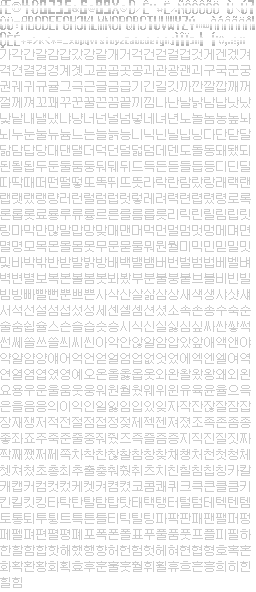
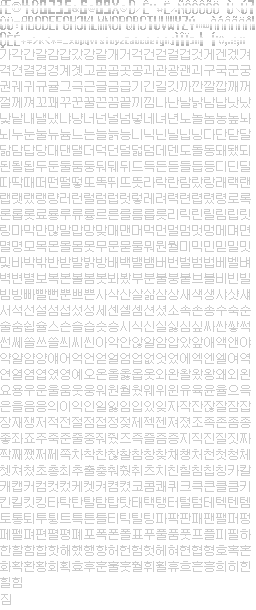
Add files via upload

diff --git a/ci/android_prepare.py b/ci/android_prepare.py
@@ -287,6 +287,151 @@ def patch_touch_auto():
         print(f"[ok]   {f}: 숨김 중에는 입력 무시")
 
 
+# 타이틀에서 20초 대기하면 디버그 켜기/끄기 (iOS 판과 같은 동작)
+DEBUG_IDLE_PATH = "System/DebugIdle.gd"
+DEBUG_IDLE_GD = """extends Node
+# 타이틀 메뉴에서 20초 동안 아무 입력(터치 등) 없이 두면 디버그를 켠다. 다른 메뉴에 들어갔다 나와서
+# 다시 20초 두면 이번엔 끈다. 화면 상단 가운데에 3초 알림. (iOS 판의 디버그 토글과 같은 동작)
+
+const DEBUG_IDLE_SEC = 20.0
+
+var dbg_idle: float = 0.0          # 타이틀 메뉴에서 입력 없이 지난 시간
+var dbg_armed: bool = true         # 한 번 토글하면, 다른 메뉴에 들어갔다 나올 때까지 다시 토글하지 않음
+var dbg_visited: bool = false      # 토글한 뒤 하위 메뉴에 들어갔다 왔는지
+var toast_layer = null
+var toast_label = null
+var toast_left: float = 0.0
+
+
+func _ready() -> void:
+	pause_mode = Node.PAUSE_MODE_PROCESS
+	var _e = get_tree().connect("node_added", self, "_on_node_added")
+
+
+# 타이틀 옵션 버튼은 원래 select_special 을 누르지 않고 들어가면 디버그를 꺼 버리므로 해금 플래그를 꺼 둔다
+func _on_node_added(n: Node) -> void:
+	if n is BaseButton:
+		call_deferred("_fix_button", n)
+
+
+func _fix_button(n) -> void:
+	if is_instance_valid(n) and n.get("able_to_unlock_debug") == true:
+		n.able_to_unlock_debug = false
+
+
+func _input(event: InputEvent) -> void:
+	if event is InputEventMouseMotion:
+		return
+	if event is InputEventJoypadMotion and abs(event.axis_value) < 0.5:
+		return
+	dbg_idle = 0.0
+
+
+func _process(delta: float) -> void:
+	if toast_left > 0.0:
+		toast_left -= delta
+		if toast_left <= 0.0 and toast_label != null:
+			toast_label.visible = false
+	var sc = get_tree().current_scene
+	var mm = null
+	if sc != null and sc.filename == "res://src/Title/IntroCapcom.tscn":
+		mm = sc.get_node_or_null("MainMenu")
+	if mm == null:
+		dbg_idle = 0.0
+		return
+	if _submenu_open(mm):
+		dbg_idle = 0.0
+		dbg_visited = true  # 옵션/키 설정 같은 하위 메뉴에 들어감
+		return
+	if mm.get("locked") != false:
+		dbg_idle = 0.0  # 타이틀 연출 중
+		return
+	if not dbg_armed:
+		if dbg_visited:
+			dbg_armed = true
+			dbg_visited = false
+		else:
+			return
+	dbg_idle += delta
+	if dbg_idle < DEBUG_IDLE_SEC:
+		return
+	dbg_armed = false
+	dbg_visited = false
+	dbg_idle = 0.0
+	var on = not GameManager.debug_enabled
+	GameManager.debug_enabled = on
+	if not on:
+		Configurations.set("ShowDebug", false)
+	_show_toast("디버그 켜짐" if on else "디버그 꺼짐")
+
+
+# mm 아래에 열려 있는(active) 하위 X8Menu(옵션, 키 설정, 불러오기 등)가 있는지
+func _submenu_open(mm: Node) -> bool:
+	for c in mm.get_children():
+		if _has_active_menu(c):
+			return true
+	return false
+
+
+func _has_active_menu(n: Node) -> bool:
+	if n is CanvasLayer and n.get("exit_action") != null and n.get("active") == true:
+		return true
+	for c in n.get_children():
+		if _has_active_menu(c):
+			return true
+	return false
+
+
+func _show_toast(text: String) -> void:
+	if toast_layer == null:
+		toast_layer = CanvasLayer.new()
+		toast_layer.layer = 120
+		toast_layer.pause_mode = Node.PAUSE_MODE_PROCESS
+		add_child(toast_layer)
+		toast_label = Label.new()
+		toast_label.align = Label.ALIGN_CENTER
+		toast_label.valign = Label.VALIGN_CENTER
+		toast_label.mouse_filter = Control.MOUSE_FILTER_IGNORE
+		var f = load("res://src/Fonts/menuFont.tres")
+		if f != null:
+			toast_label.add_font_override("font", f)
+		toast_label.add_color_override("font_color", Color(1, 1, 1, 1))
+		var sb = StyleBoxFlat.new()
+		sb.bg_color = Color(0, 0, 0, 0.75)
+		toast_label.add_stylebox_override("normal", sb)
+		toast_layer.add_child(toast_label)
+	toast_label.text = text
+	var vs = get_viewport().get_visible_rect().size
+	toast_label.rect_size = Vector2(120.0, 20.0)
+	toast_label.rect_position = Vector2((vs.x - 120.0) * 0.5, 10.0)
+	toast_label.visible = true
+	toast_left = 3.0
+"""
+
+
+def patch_debug_idle():
+    if os.path.exists(DEBUG_IDLE_PATH) and "DEBUG_IDLE_SEC" in ip.read(DEBUG_IDLE_PATH):
+        print(f"[skip] {DEBUG_IDLE_PATH} (이미 있음)")
+    else:
+        ip.write(DEBUG_IDLE_PATH, DEBUG_IDLE_GD)
+        print(f"[ok]   {DEBUG_IDLE_PATH} 추가 (타이틀 20초 대기 디버그 토글)")
+    path = "project.godot"
+    src = ip.read(path)
+    if "DebugIdle=" in src:
+        print("[skip] project.godot (DebugIdle 이미 등록됨)")
+        return
+    nl = "\r\n" if "\r\n" in src else "\n"
+    m = re.search(r"^\[autoload\]\r?\n", src, re.M)
+    if not m:
+        print("[warn] project.godot 에 [autoload] 섹션이 없음")
+        return
+    end = re.search(r"^\r?\n", src[m.end():], re.M)
+    at = m.end() + (end.start() if end else len(src) - m.end())
+    src = src[:at] + 'DebugIdle="*res://System/DebugIdle.gd"' + nl + src[at:]
+    ip.write(path, src)
+    print("[ok]   project.godot += DebugIdle autoload")
+
+
 def _run(name):
     """ios_prepare.py 의 공통 패치를 이름으로 실행. 그 파일에 없는 함수면 경고만 하고 건너뛴다
     (iOS 저장소의 최신 ci/ios_prepare.py 를 이 저장소의 ci/ 로 복사해 오면 전부 적용됨)."""
@@ -304,6 +449,7 @@ if __name__ == "__main__":
     apply_android_assets()
     patch_project_android()
     patch_touch_auto()
+    patch_debug_idle()
     patch_presets_android()
     # 2) 공통 패치 (iOS 빌드와 같은 순서)
     _run("patch_spawner")
